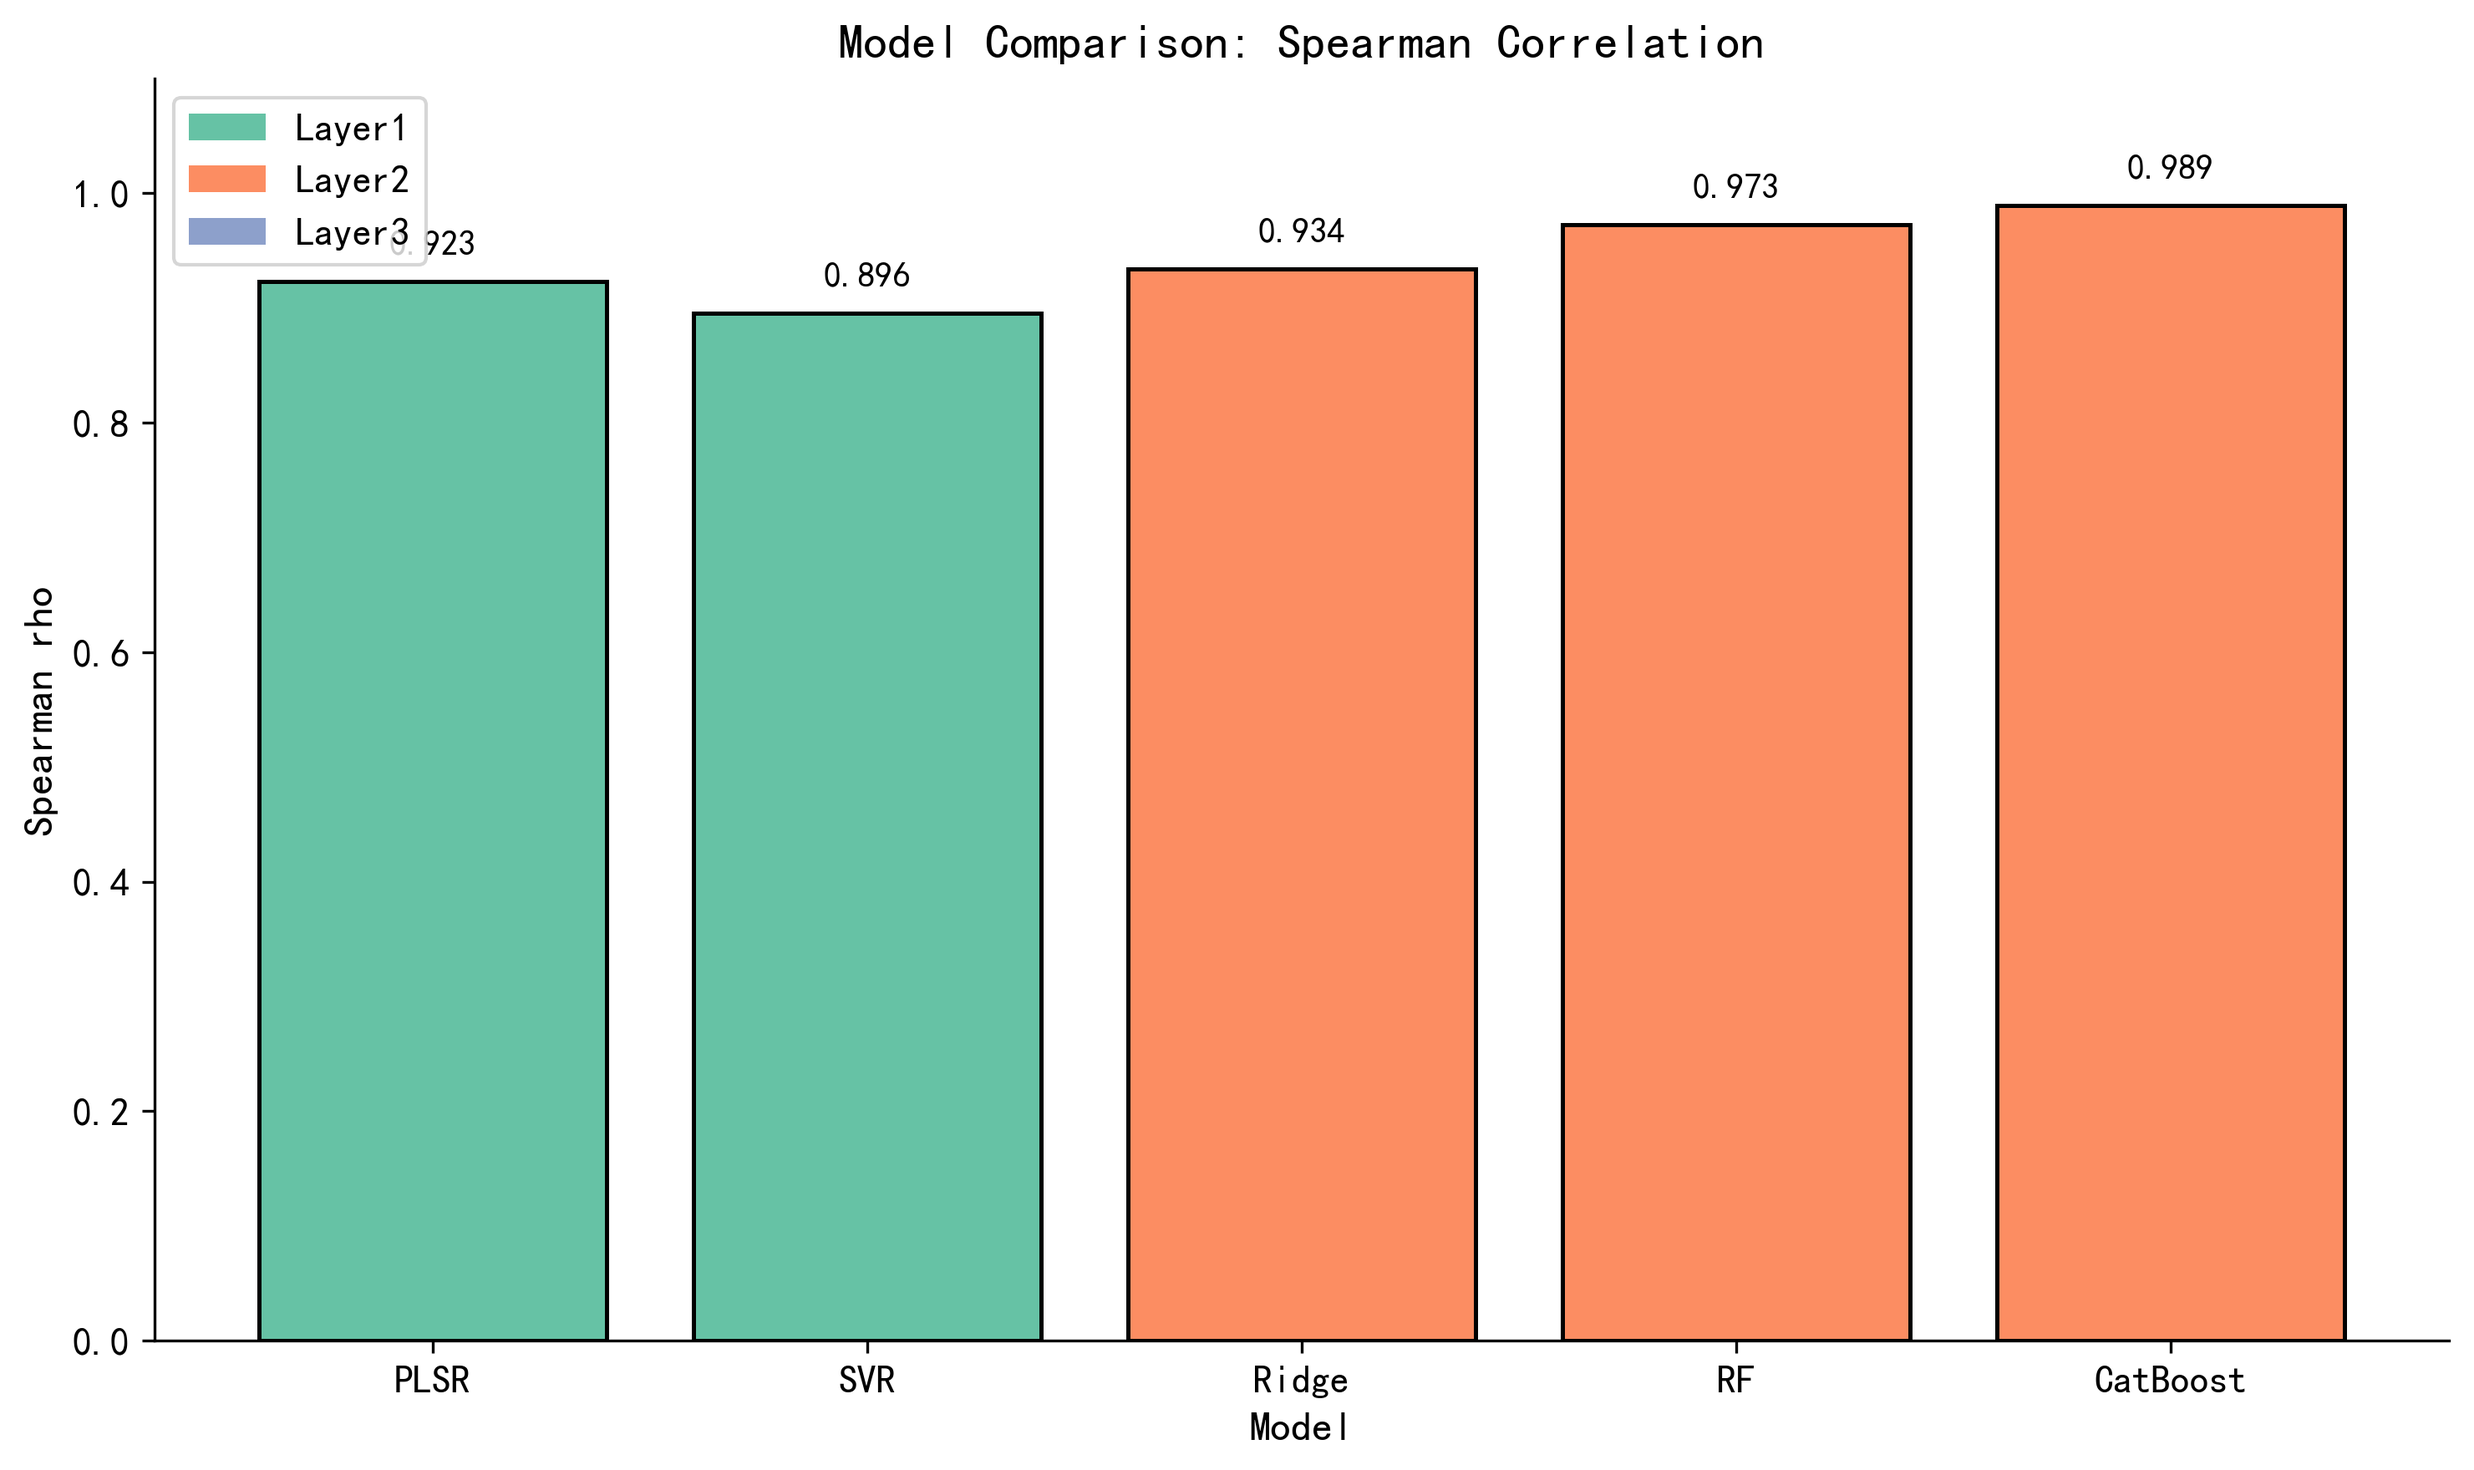
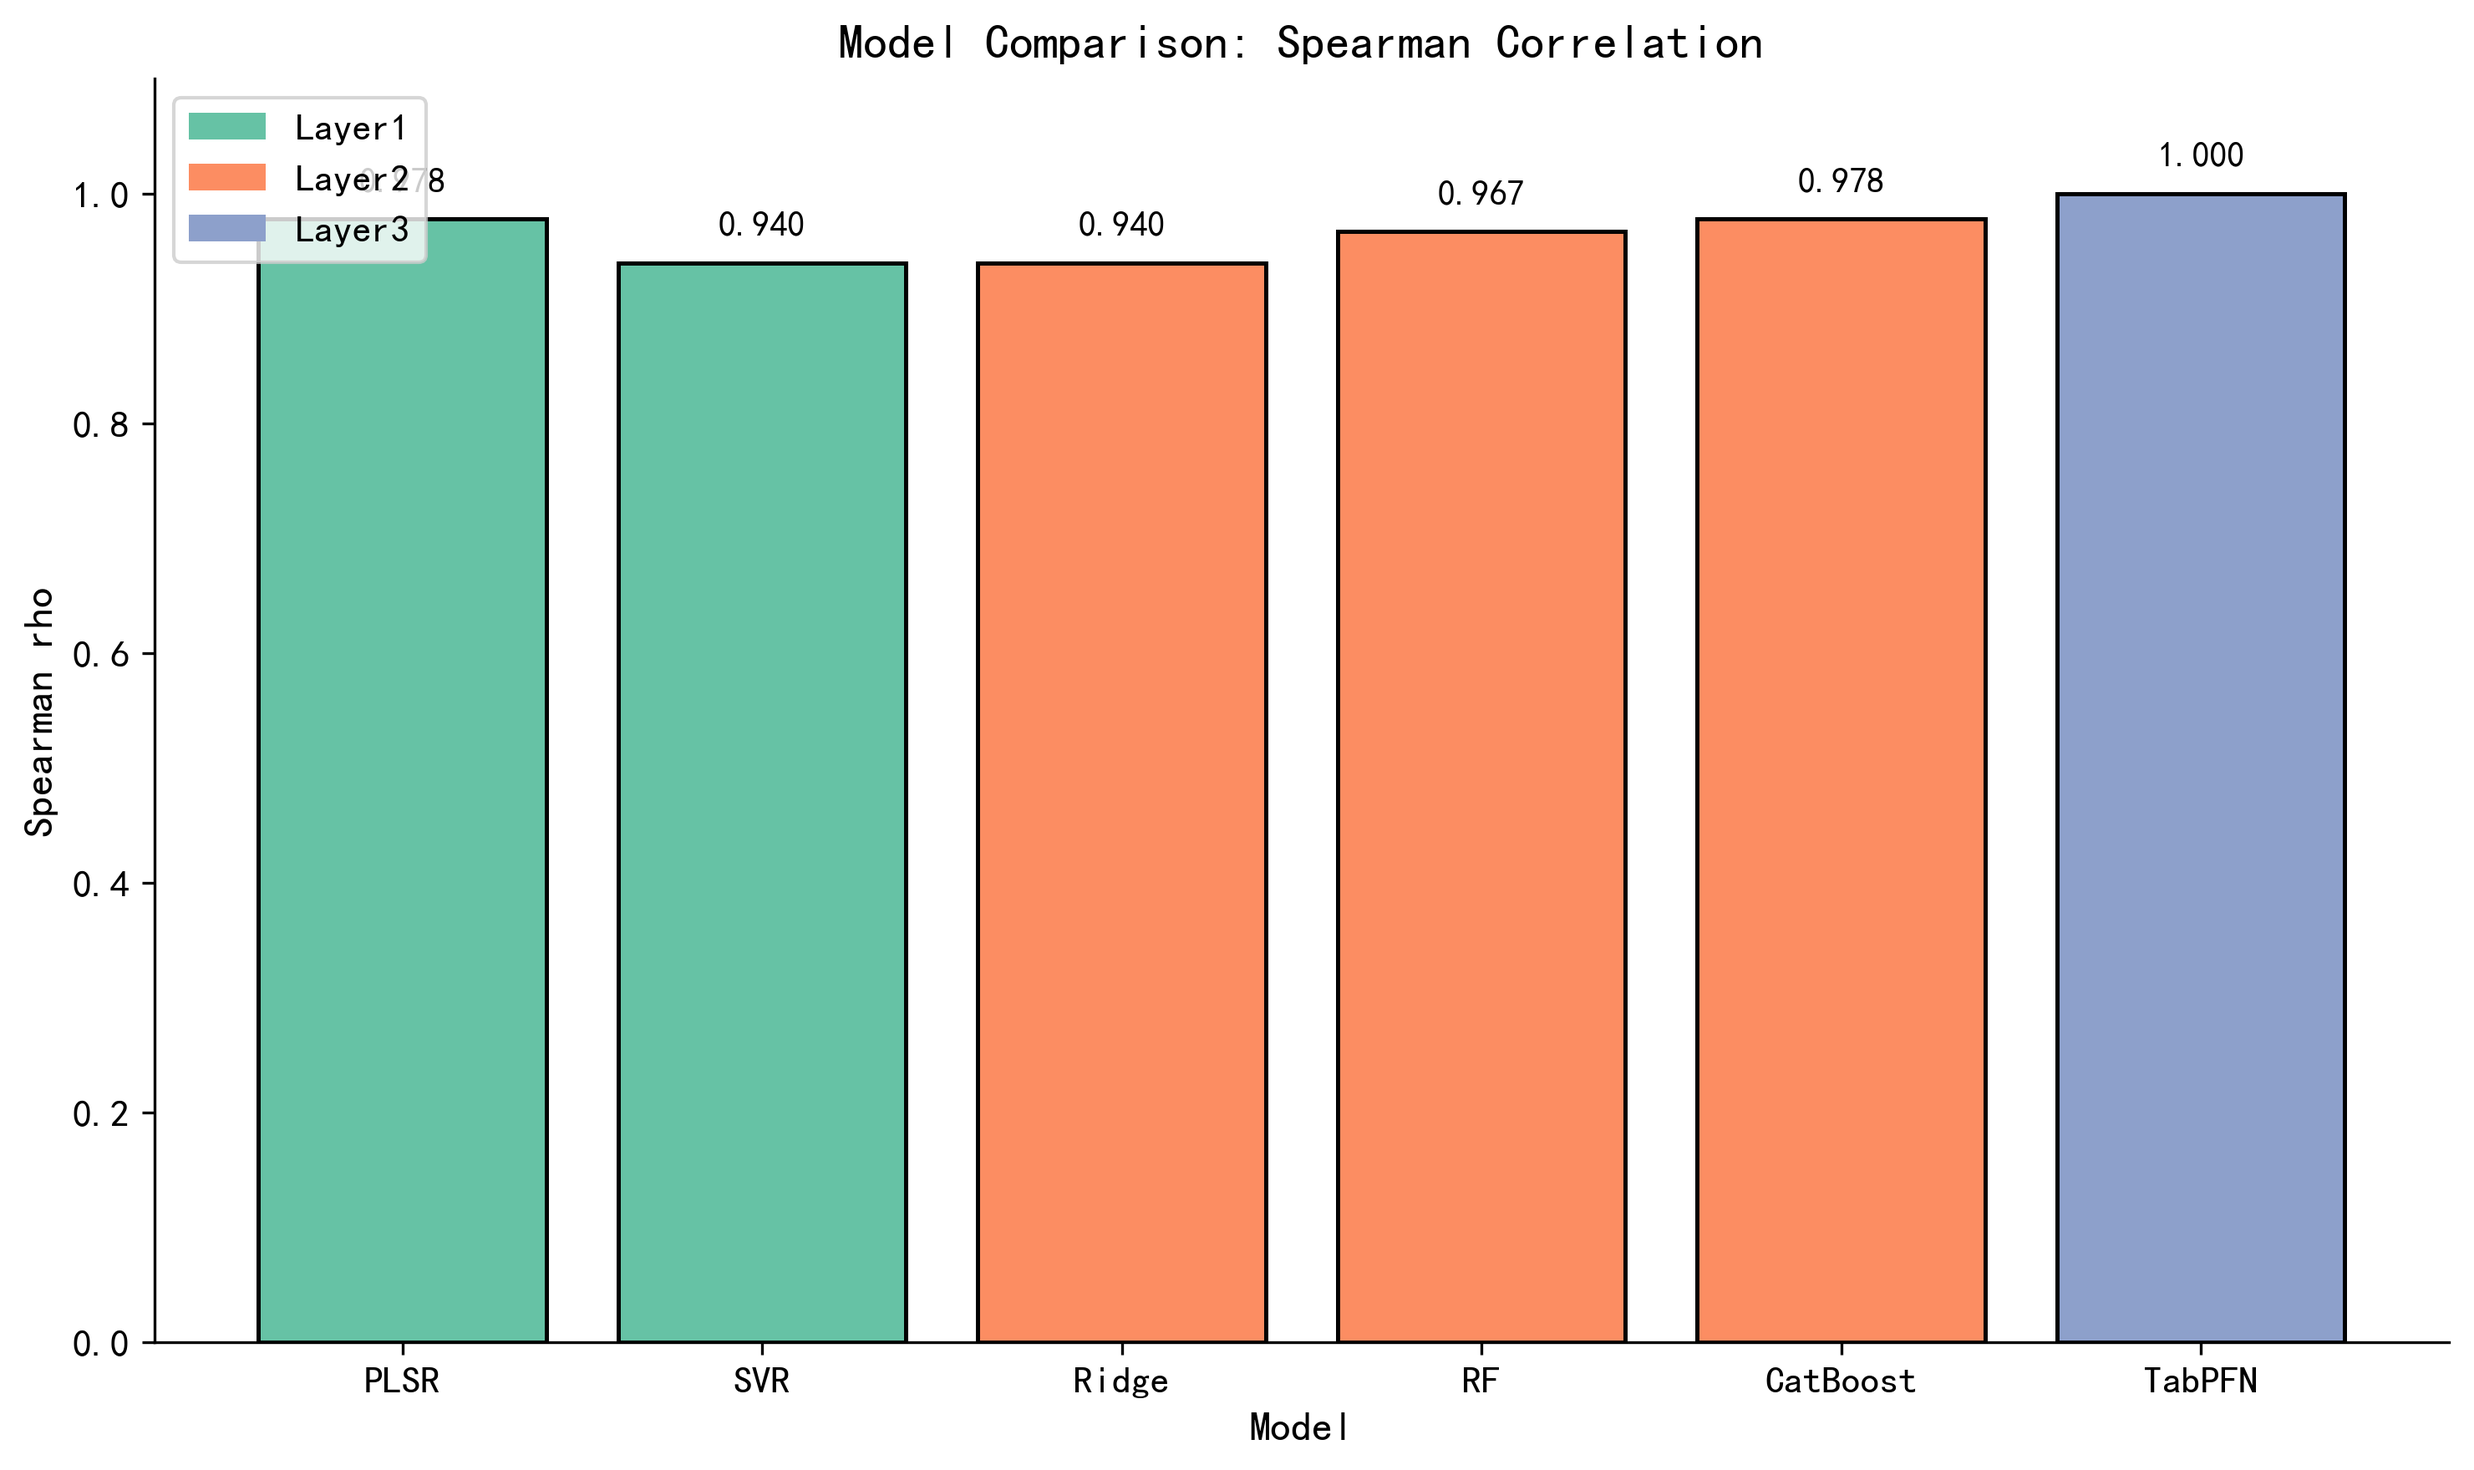
feat: 更新模型对比报告，替换最佳模型为TabPFN并调整性能指标

diff --git a/results/reports/exp6_model_comparison_report.md b/results/reports/exp6_model_comparison_report.md
@@ -1,6 +1,6 @@
 # Exp-6: 模型对比实验报告
 
-**报告生成时间:** 2026-01-28 09:30:54
+**报告生成时间:** 2026-02-02 17:57:21
 **随机种子:** 42
 **交叉验证:** 5折 KFold
 **特征集:** FS4 (三源融合, 40个特征)
@@ -9,13 +9,13 @@
 
 ## 摘要
 
-本实验对比了6个模型在水稻抗旱性预测任务上的表现。结果显示，**CatBoost** 取得了最佳性能（Spearman rho = 0.989），较表现最差的 SVR（rho = 0.896）提升了 9.3%。
+本实验对比了6个模型在水稻抗旱性预测任务上的表现。结果显示，**TabPFN** 取得了最佳性能（Spearman rho = 1.000），较表现最差的 SVR（rho = 0.940）提升了 6.0%。
 
 ### 主要发现
 
-1. **最优模型:** CatBoost，Spearman rho = 0.989
+1. **最优模型:** TabPFN，Spearman rho = 1.000
 2. **Top-3命中率:** 1.00
-3. **配对排序准确率:** 0.974
+3. **配对排序准确率:** 1.000
 
 ---
 
@@ -48,19 +48,20 @@
 
 | 模型 | 层级 | R2 | RMSE | Spearman rho | 配对准确率 | Hit@3 | Hit@5 |
 |------|------|-----|------|--------------|-----------|-------|-------|
-| PLSR | Layer1 | 0.857 | 0.050 | 0.923 | 0.885 | 0.67 | 1.00 |
-| SVR | Layer1 | 0.512 | 0.092 | 0.896 | 0.885 | 0.67 | 0.80 |
-| Ridge | Layer2 | 0.878 | 0.046 | 0.934 | 0.923 | 1.00 | 1.00 |
-| RF | Layer2 | 0.726 | 0.069 | 0.973 | 0.949 | 1.00 | 0.80 |
-| **CatBoost** | Layer2 | 0.809 | 0.057 | 0.989 | 0.974 | 1.00 | 1.00 |
+| PLSR | Layer1 | 0.936 | 0.033 | 0.978 | 0.949 | 1.00 | 1.00 |
+| SVR | Layer1 | 0.421 | 0.100 | 0.940 | 0.910 | 1.00 | 0.80 |
+| Ridge | Layer2 | 0.902 | 0.041 | 0.940 | 0.910 | 0.67 | 1.00 |
+| RF | Layer2 | 0.851 | 0.051 | 0.967 | 0.949 | 1.00 | 1.00 |
+| CatBoost | Layer2 | 0.867 | 0.048 | 0.978 | 0.962 | 1.00 | 1.00 |
+| **TabPFN** | Layer3 | 0.943 | 0.031 | 1.000 | 1.000 | 1.00 | 1.00 |
 
 ### 2.2 层级对比分析
 
 | 层级 | 描述 | 模型 | 平均Spearman rho |
 |------|------|------|------------------|
-| Layer1 | 经典农学模型 | PLSR, SVR | 0.909 |
-| Layer2 | 传统机器学习 | Ridge, RF, CatBoost | 0.965 |
-| Layer3 | 新型神经网络 | TabPFN | 0.000 |
+| Layer1 | 经典农学模型 | PLSR, SVR | 0.959 |
+| Layer2 | 传统机器学习 | Ridge, RF, CatBoost | 0.962 |
+| Layer3 | 新型神经网络 | TabPFN | 1.000 |
 
 ---
 
@@ -70,15 +71,16 @@
 
 | Model    |   R2_Rank |   Spearman_Rank |   Pairwise_Acc_Rank |   Hit@3_Rank |   Avg_Rank |
 |:---------|----------:|----------------:|--------------------:|-------------:|-----------:|
-| CatBoost |         3 |               1 |                   1 |            2 |       1.75 |
-| Ridge    |         1 |               3 |                   3 |            2 |       2.25 |
-| RF       |         4 |               2 |                   2 |            2 |       2.5  |
-| PLSR     |         2 |               4 |                   4 |            4 |       3.5  |
-| SVR      |         5 |               5 |                   4 |            4 |       4.5  |
+| TabPFN   |         1 |               1 |                   1 |            3 |       1.5  |
+| PLSR     |         2 |               2 |                   3 |            3 |       2.5  |
+| CatBoost |         4 |               2 |                   2 |            3 |       2.75 |
+| RF       |         5 |               4 |                   3 |            3 |       3.75 |
+| Ridge    |         3 |               5 |                   5 |            6 |       4.75 |
+| SVR      |         6 |               5 |                   5 |            3 |       4.75 |
 
 ### 3.2 结论
 
-1. **CatBoost** 在水稻抗旱性预测任务中表现最优
+1. **TabPFN** 在水稻抗旱性预测任务中表现最优
 2. 三源融合特征集(FS4)为所有模型提供了有效的预测基础
 3. Hit@3达到100%，支持育种初筛应用
 
@@ -90,18 +92,18 @@
 
 | 编号 | 描述 | 文件路径 |
 |------|------|----------|
-| 表1 | 模型性能对比主表 | `F:/all_exp/results/tables/exp6_table1_main_results.csv` |
-| 表2 | 各指标模型排名 | `F:/all_exp/results/tables/exp6_table2_rankings.csv` |
+| 表1 | 模型性能对比主表 | `C:\Users\P7\PycharmProjects\Jazzy\results\tables/exp6_table1_main_results.csv` |
+| 表2 | 各指标模型排名 | `C:\Users\P7\PycharmProjects\Jazzy\results\tables/exp6_table2_rankings.csv` |
 
 ### 4.2 图表
 
 | 编号 | 描述 | 文件路径 |
 |------|------|----------|
-| 图1 | 模型性能对比 | `F:/all_exp/results/figures/exp6_fig1_model_comparison.png` |
-| 图2 | 模型层级性能对比 | `F:/all_exp/results/figures/exp6_fig2_layer_comparison.png` |
-| 图3 | Top-3模型雷达图 | `F:/all_exp/results/figures/exp6_fig3_radar.png` |
+| 图1 | 模型性能对比 | `C:\Users\P7\PycharmProjects\Jazzy\results\figures/exp6_fig1_model_comparison.png` |
+| 图2 | 模型层级性能对比 | `C:\Users\P7\PycharmProjects\Jazzy\results\figures/exp6_fig2_layer_comparison.png` |
+| 图3 | Top-3模型雷达图 | `C:\Users\P7\PycharmProjects\Jazzy\results\figures/exp6_fig3_radar.png` |
 
 ---
 
 *报告由 step4_aggregate_results.py 自动生成*
-*数据来源: F:/all_exp/data/processed/features_40.csv*
+*数据来源: data/processed/features_40.csv*
